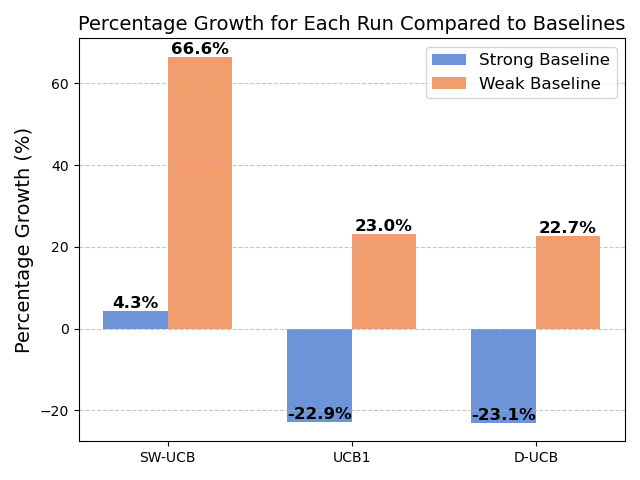
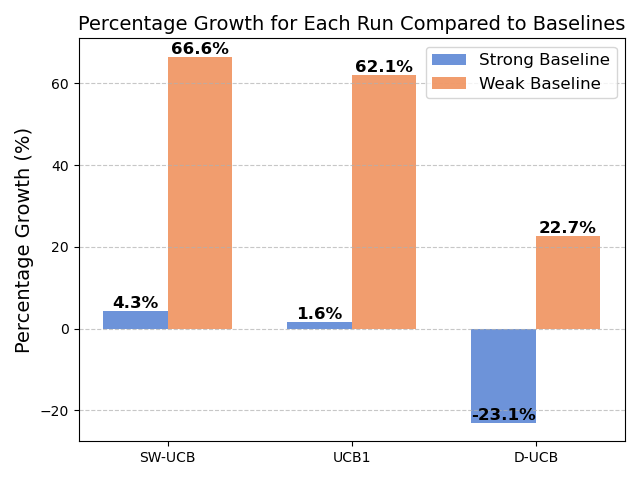
corrected UCB-1

Changed region(s): [[0.5312, 0.125, 0.6562, 0.5], [0.4375, 0.625, 0.5625, 0.9062]]

diff --git a/agents.py b/agents.py
@@ -130,8 +130,11 @@ class SlidingWindowUCBAgent:
         self.recent_counts = [deque(maxlen=self.window_size) for _ in range(n_actions)]
 
     def get_action(self):
-        if self.counts.min() == 0:
-            action = np.random.choice(np.where(self.counts == 0)[0])
+        if self.counts.min == 0:
+        # action = np.random. choice(np.where(self.counts == 0) [0])
+            idx = np.random.choice(np.where(self.counts == 0)[0])
+            action = np.zeros(len(self.values))
+            action[idx] = 1
         else:
             min_time_steps = min(self.total_time_steps, self.window_size)
             recent_counts_sum = np.array([sum(counts) for counts in self.recent_counts])
@@ -152,8 +155,8 @@ class SlidingWindowUCBAgent:
                 avg_reward = sum(self.recent_rewards[i]) / sum(self.recent_counts[i])
                 self.values[i] = avg_reward
             else:
-                self.counts[i] += 1
-                self.recent_counts[i].append(0)
+                self.counts[i] += 0
+                # self.recent_counts[i].append(0)
 
 class DiscountedUCBAgent:
     def __init__(self, c=5, gamma=0.99):
@@ -168,10 +171,13 @@ class DiscountedUCBAgent:
         self.values = np.zeros(n_actions)
 
     def get_action(self):
-        if self.counts.min() == 0:
-            action = np.random.choice(np.where(self.counts == 0)[0])
+        if self.counts.min == 0:
+        # action = np.random. choice(np.where(self.counts == 0) [0])
+            idx = np.random.choice(np.where(self.counts == 0)[0])
+            action = np.zeros(len(self.values))
+            action[idx] = 1
         else:
-            ucb_values = self.values + self.c * np.sqrt(np.log(self.total_time_steps) / self.counts)
+            ucb_values = self.values + self.c * np.sqrt(2 * np.log(self.total_time_steps) / self.counts)
             action = ucb_values
         return action
 
@@ -183,7 +189,7 @@ class DiscountedUCBAgent:
                 alpha = 1 / self.counts[i]
                 self.values[i] = (1 - alpha) * self.values[i] + alpha * reward * pow(self.gamma, self.total_time_steps - self.counts[i])
             else:
-                self.counts[i] += 1
+                self.counts[i] += 0
 
 
 class UCBAgent:
@@ -198,10 +204,13 @@ class UCBAgent:
         self.values = np.zeros(n_actions)
 
     def get_action(self):
-        if self.counts.min() == 0:
-            action = np.random.choice(np.where(self.counts == 0)[0])
+        if self.counts.min == 0:
+        # action = np.random. choice(np.where(self.counts == 0) [0])
+            idx = np.random.choice(np.where(self.counts == 0)[0])
+            action = np.zeros(len(self.values))
+            action[idx] = 1
         else:
-            ucb_values = self.values + self.c * np.sqrt(np.log(self.total_time_steps) / self.counts)
+            ucb_values = self.values + self.c * np.sqrt(2 * np.log(self.total_time_steps) / self.counts)
             action = ucb_values
         return action
 
@@ -212,4 +221,4 @@ class UCBAgent:
                 self.counts[i] += 1
                 self.values[i] = self.values[i] + (1 / self.counts[i]) * (reward - self.values[i])
             else:
-                self.counts[i] += 1
+                self.counts[i] += 0

diff --git a/UCBtest.py b/UCBtest.py
@@ -245,32 +245,31 @@ Baseline:
 
 
 Run 1 SW-UCB:
-TRAINING window size 50 * 60 ===
-[total reward]: 0.558                       
-====== TESTING window size 50 * 60 ======
-[total reward]: 0.528
+== TRAINING===
+[total reward]: 0.561                         
+====== TESTING======
+[total reward]: 0.524
 
-Difference Strong Baseline = Run 1 - Baseline = 0.528 - 0.506 = 0.022
-Percentage growth = (Difference / Baseline) x 100 = 0.022 / 0.506 x 100 = 4.3%
-Growth: 4.3%.
+Difference Strong Baseline = Run 1 - Baseline = 0.524 - 0.506 = 0.018
+Percentage growth = (Difference / Baseline) x 100 = 0.018 / 0.506 x 100 = 3.6%
 
-Difference Weak Baseline = Run 1 - Baseline = 0.528 - 0.317 = 0.211
-Percentage growth = (Difference / Baseline) x 100 = 0.211 / 0.317 x 100 = 66.4%
-Growth: 66.4%. 
+Difference Weak Baseline = Run 1 - Baseline = 0.524 - 0.317 = 0.207
+Percentage growth = (Difference / Baseline) x 100 = 0.207 / 0.317 x 100 = 65.3%
+Growth: 65.3%.
 
 
 Run 2 UCB1:
-[total reward]: 0.449                         
+[total reward]: 0.558                    
 ====== TESTING======
-[total reward]: 0.39
+[total reward]: 0.514
 
-Difference Strong Baseline = Run 2 - Baseline = 0.39 - 0.506 = -0.116
-Percentage growth = (Difference / Baseline) x 100 = -0.116 / 0.506 x 100 = -22.9%
-Growth: -22.9%.
+Difference Strong Baseline = Run 2 - Baseline = 0.514 - 0.506 = 0.008
+Percentage growth = (Difference / Baseline) x 100 = 0.008 / 0.506 x 100 = 1.6%
 
-Difference Weak Baseline = Run 2 - Baseline = 0.39 - 0.317 = 0.073
-Percentage growth = (Difference / Baseline) x 100 = 0.073 / 0.317 x 100 = 23.0%
-Growth: 23.0%.
+
+Difference Weak Baseline = Run 2 - Baseline = 0.514 - 0.317 = 0.197
+Percentage growth = (Difference / Baseline) x 100 = 0.197 / 0.317 x 100 = 62.1%
+Growth: 62.1%.
 
 Run 3 D-UCB:
 ====== TESTING gamma ======

diff --git a/plots/plot.py b/plots/plot.py
@@ -9,7 +9,7 @@ def add_text_label(ax, x, y, value, color='black', fontweight='bold', fontsize=1
 baseline_strong = 0.506
 baseline_weak = 0.317
 runs = ['SW-UCB', 'UCB1', 'D-UCB']
-test_rewards = [0.528, 0.39, 0.389]
+test_rewards = [0.528, 0.514, 0.389]
 
 # Calculate percentage growths
 growth_strong = [(reward - baseline_strong) / baseline_strong * 100 for reward in test_rewards]
